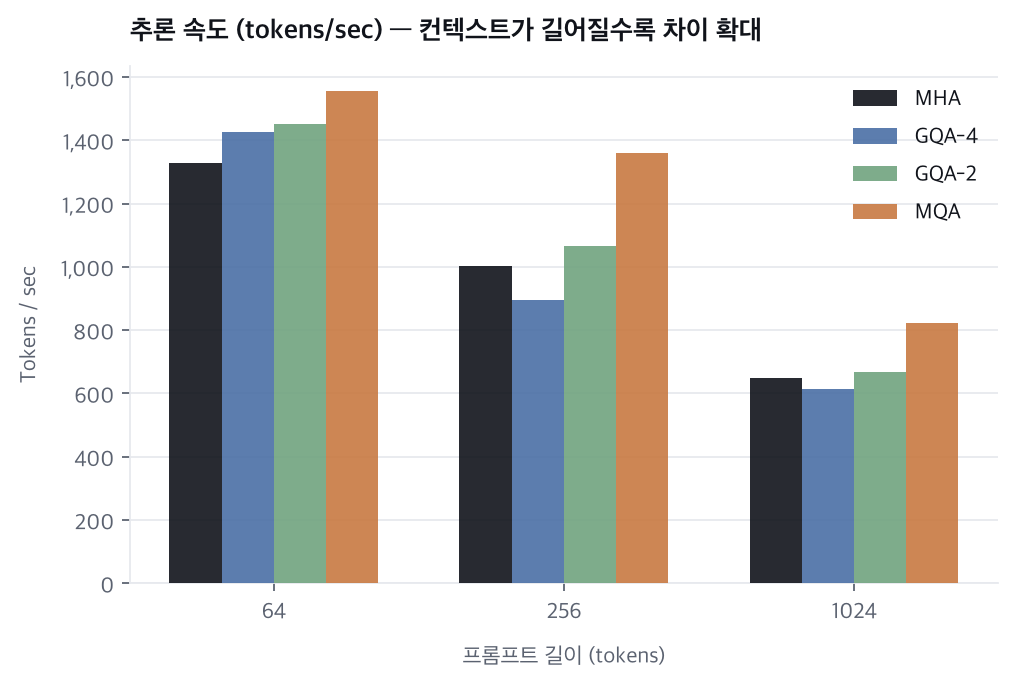
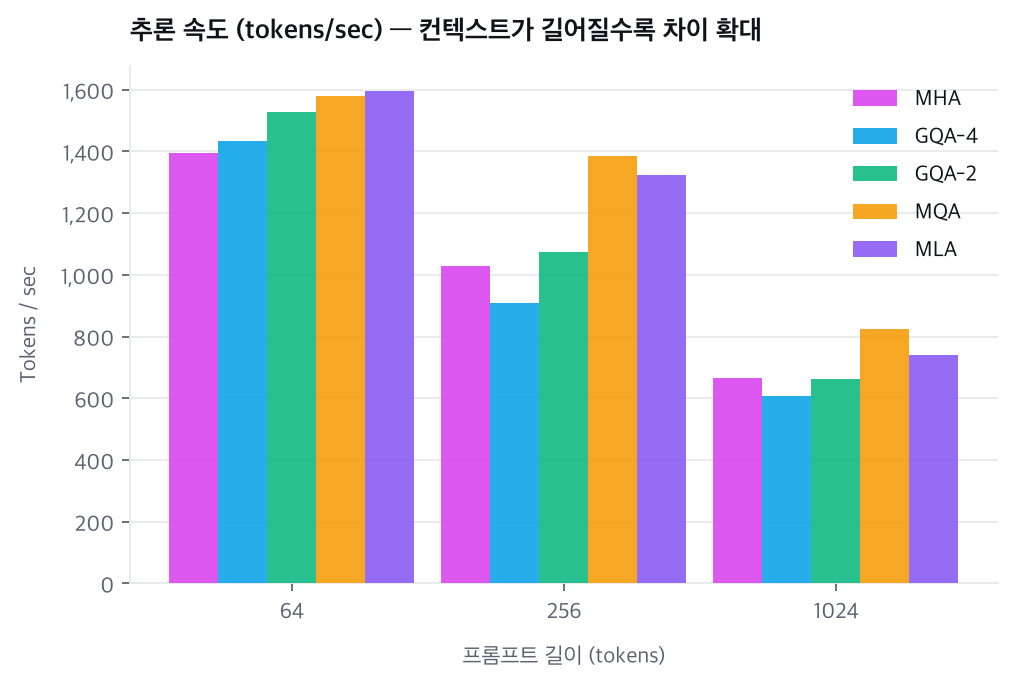
fix: update MLA charts to include MLA metrics

diff --git a/scripts/gen_figures.py b/scripts/gen_figures.py
@@ -28,11 +28,11 @@ ACCENT    = '#10131A'
 
 # 4개 구성 색상 (단색 계열, 가독성 우선)
 COLORS = {
-    'MHA':   '#10131A',
-    'GQA-4': '#4A6FA5',
-    'GQA-2': '#70A37F',
-    'MQA':   '#C87941',
-    'MLA':   '#9B4DCA',
+    'MHA': '#D946EF',     # Fuchsia
+    'GQA-4': '#0EA5E9',   # Sky Blue
+    'GQA-2': '#10B981',   # Emerald
+    'MQA': '#F59E0B',     # Amber
+    'MLA': '#8B5CF6',     # Violet (MLA)
 }
 
 def style_ax(ax, title='', xlabel='', ylabel=''):
@@ -68,10 +68,11 @@ def save(fig, name):
 # ══════════════════════════════════════════════════════════════
 seq_lens = [512, 4096, 32768, 131072]
 kv_data = {
-    'MHA':   [6.29, 50.33, 402.65, 1610.61],
-    'GQA-4': [3.15, 25.17, 201.33,  805.31],
-    'GQA-2': [1.57, 12.58, 100.66,  402.65],
-    'MQA':   [0.79,  6.29,  50.33,  201.33],
+    'MHA':   [6.00, 48.00, 384.00, 1536.00],
+    'GQA-4': [3.00, 24.00, 192.00,  768.00],
+    'GQA-2': [1.50, 12.00,  96.00,  384.00],
+    'MQA':   [0.75,  6.00,  48.00,  192.00],
+    'MLA':   [0.38,  3.00,  24.00,   96.00],
 }
 
 fig, ax = plt.subplots(figsize=(7, 4.2))
@@ -102,10 +103,11 @@ save(fig, 'fig1_kv_cache_vs_seqlen.png')
 # ══════════════════════════════════════════════════════════════
 prompt_lens = [64, 256, 1024]
 speed_data = {
-    'MHA':   [1329.0, 1003.9,  649.5],
-    'GQA-4': [1426.7,  893.9,  613.8],
-    'GQA-2': [1450.2, 1066.6,  668.3],
-    'MQA':   [1557.4, 1358.7,  824.0],
+    'MHA':   [1394.8, 1028.4,  664.8],
+    'GQA-4': [1433.6,  909.8,  608.5],
+    'GQA-2': [1528.6, 1074.4,  663.2],
+    'MQA':   [1579.9, 1384.1,  825.8],
+    'MLA':   [1597.4, 1324.1,  740.0],
 }
 
 configs  = list(speed_data.keys())
